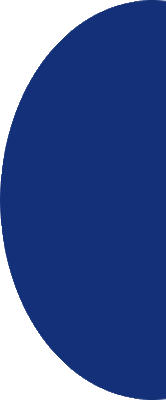
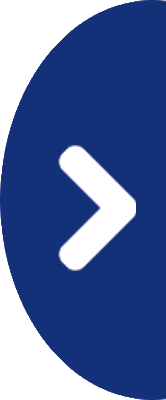
Added/modified graphics for next/prev step

Changed region(s): [[0.3313, 0.36, 0.8434, 0.69]]

diff --git a/src/wekaui/customcontrols/stylesheets/lastusedmodelslistview.css b/src/wekaui/customcontrols/stylesheets/lastusedmodelslistview.css
@@ -1,0 +1,7 @@
+/*
+ * Empty Stylesheet file.
+ */
+
+.mainFxmlClass {
+
+}
